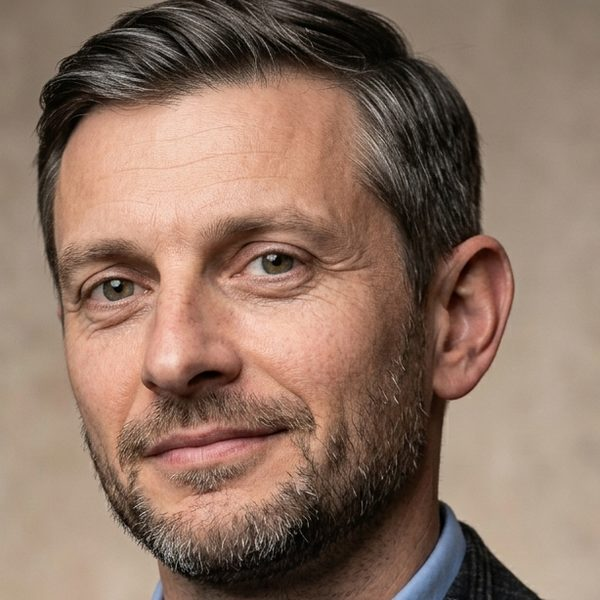
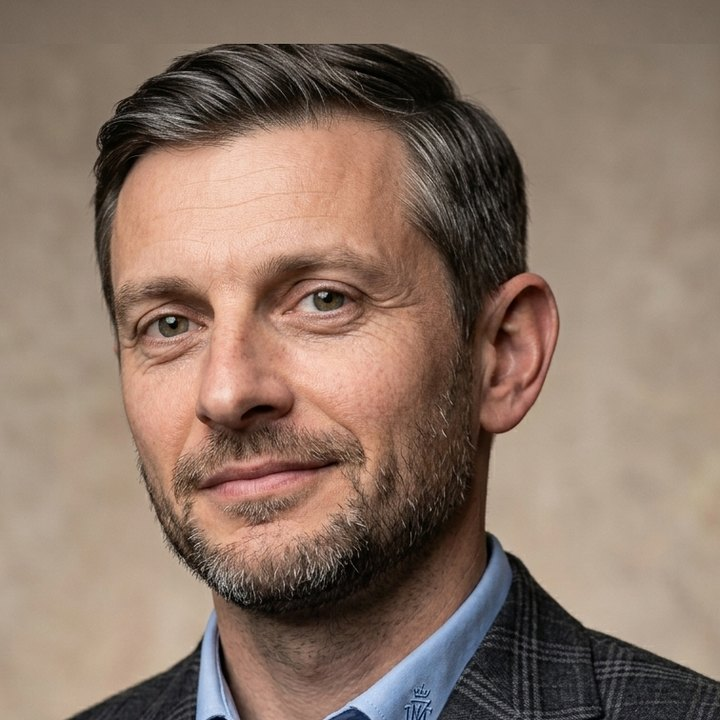
Widen the reports grid and recast the founder portrait.
Give the reports table its own ticker column, fixed widths so categories can wrap, and a 1200px container. Replace the delayed-access line with the one-month members sentence. Recrop the About headshot and draw the frame as a raised gold ring.

diff --git a/reports/index.html b/reports/index.html
@@ -140,14 +140,14 @@
   </header>
     <main id="main">
       <section class="page-hero">
-      <div class="wrap">
+      <div class="wrap reports-wrap">
         <p class="eyebrow">Published Research</p>
         <h1>Reports.</h1>
-        <p class="lede">Reports are free 1 month after release. A new note stays with members until then.</p>
+        <p class="lede">Reports become free one month after release. Until then they may only be accessed by subscribed members.</p>
       </div>
     </section>
     <section class="page">
-      <div class="wrap">
+      <div class="wrap reports-wrap">
         <div class="grid-tools">
           <label>Search
             <input id="report-search" type="search" placeholder="Title or ticker" autocomplete="off" />
@@ -176,6 +176,7 @@
             <table class="data">
               <thead>
                 <tr>
+                  <th>Ticker</th>
                   <th>Title</th>
                   <th>Category</th>
                   <th>Date Published</th>
@@ -184,12 +185,12 @@
                 </tr>
               </thead>
               <tbody>
-                <tr><td><a href="/reports/six-flags/">FUN Six Flags: The Business of Fun Isn't Much Fun</a></td><td>Leisure / Theme Parks</td><td>Oct 12, 2026</td><td>Short</td><td>Members only until Nov 12, 2026</td></tr>
-                <tr><td><a href="/reports/oracle/">ORCL Oracle: The Software Franchise Is Funding the Build</a></td><td>AI / Data Centers</td><td>Sep 21, 2026</td><td>Short</td><td>Available</td></tr>
-                <tr><td><a href="/reports/uranium/">URN Uranium: The Fuel Works. The Equity Has to Wait</a></td><td>Uranium / Nuclear</td><td>Sep 7, 2026</td><td>Short</td><td>Available</td></tr>
-                <tr><td><a href="/reports/coreweave/">CRWV CoreWeave: A Ranked Short</a></td><td>AI / Data Centers</td><td>Aug 24, 2026</td><td>Short</td><td>Available</td></tr>
-                <tr><td><a href="/reports/ww/">WW WW International: A Smaller Loan on a Shrinking Business</a></td><td>Consumer / Weight Loss</td><td>Jun 8, 2026</td><td>Short</td><td>Available</td></tr>
-                <tr><td><a href="/reports/uniti/">UNIT Uniti: The REIT Ended. The Debt Did Not.</a></td><td>Telecom / Fiber</td><td>May 18, 2026</td><td>Short</td><td>Available</td></tr>
+                <tr><td>FUN</td><td><a href="/reports/six-flags/">Six Flags: The Business of Fun Isn't Much Fun</a></td><td>Leisure / Theme Parks</td><td>Oct 12, 2026</td><td>Short</td><td>Members only until Nov 12, 2026</td></tr>
+                <tr><td>ORCL</td><td><a href="/reports/oracle/">Oracle: The Software Franchise Is Funding the Build</a></td><td>AI / Data Centers</td><td>Sep 21, 2026</td><td>Short</td><td>Available</td></tr>
+                <tr><td>URN</td><td><a href="/reports/uranium/">Uranium: The Fuel Works. The Equity Has to Wait</a></td><td>Uranium / Nuclear</td><td>Sep 7, 2026</td><td>Short</td><td>Available</td></tr>
+                <tr><td>CRWV</td><td><a href="/reports/coreweave/">CoreWeave: A Ranked Short</a></td><td>AI / Data Centers</td><td>Aug 24, 2026</td><td>Short</td><td>Available</td></tr>
+                <tr><td>WW</td><td><a href="/reports/ww/">WW International: A Smaller Loan on a Shrinking Business</a></td><td>Consumer / Weight Loss</td><td>Jun 8, 2026</td><td>Short</td><td>Available</td></tr>
+                <tr><td>UNIT</td><td><a href="/reports/uniti/">Uniti: The REIT Ended. The Debt Did Not.</a></td><td>Telecom / Fiber</td><td>May 18, 2026</td><td>Short</td><td>Available</td></tr>
               </tbody>
             </table>
           </div>

diff --git a/public/css/site.css b/public/css/site.css
@@ -704,18 +704,55 @@ table.data a:hover { color: var(--brass); }
 .founder-lockup { display: flex; flex-direction: column; align-items: flex-start; gap: 28px; }
 
 .founder-portrait {
-  width: 168px;
-  height: 168px;
+  position: relative;
+  width: 196px;
+  height: 196px;
   border-radius: 50%;
-  padding: 5px;
+  padding: 13px;
   background:
-    radial-gradient(circle at 30% 24%, rgba(255, 248, 230, 0.95), rgba(255, 248, 230, 0) 36%),
-    conic-gradient(from 210deg, #6d5422 0deg, #c6a15b 48deg, #f6edd4 92deg, #8d6c32 140deg, #5a4318 196deg, #ead9a6 248deg, #a07c3c 304deg, #6d5422 360deg);
+    radial-gradient(circle at 32% 26%, rgba(255, 243, 196, 0.55), rgba(255, 243, 196, 0) 46%),
+    conic-gradient(
+      from 206deg,
+      #7a5512 0deg,
+      #b8862b 46deg,
+      #d4a537 84deg,
+      #f5d77a 112deg,
+      #fff3c4 136deg,
+      #f5d77a 162deg,
+      #d4a537 198deg,
+      #b8862b 230deg,
+      #7a5512 268deg,
+      #5c3e10 300deg,
+      #b8862b 332deg,
+      #d4a537 352deg,
+      #7a5512 360deg
+    );
   box-shadow:
-    inset 0 1px 0 rgba(255, 250, 236, 0.85),
-    inset 0 -8px 12px rgba(70, 48, 12, 0.28),
-    0 1px 1px rgba(255, 248, 230, 0.7),
-    0 12px 26px rgba(48, 34, 10, 0.16);
+    0 0 0 1px #5a3e10,
+    0 1px 0 rgba(255, 243, 196, 0.75),
+    0 2px 3px rgba(48, 30, 8, 0.18),
+    0 14px 22px rgba(42, 28, 8, 0.26);
+}
+
+.founder-portrait::before {
+  content: "";
+  position: absolute;
+  inset: 0;
+  border-radius: 50%;
+  padding: 13px;
+  background: linear-gradient(
+    145deg,
+    rgba(255, 243, 196, 0.95) 0%,
+    rgba(245, 215, 122, 0.45) 24%,
+    rgba(255, 255, 255, 0) 46%,
+    rgba(92, 62, 16, 0.28) 74%,
+    rgba(255, 243, 196, 0.28) 100%
+  );
+  -webkit-mask: linear-gradient(#000 0 0) content-box, linear-gradient(#000 0 0);
+  -webkit-mask-composite: xor;
+  mask: linear-gradient(#000 0 0) content-box, linear-gradient(#000 0 0);
+  mask-composite: exclude;
+  pointer-events: none;
 }
 
 .founder-portrait-face {
@@ -729,9 +766,9 @@ table.data a:hover { color: var(--brass); }
   background:
     radial-gradient(circle at 50% 36%, #f6f5f2, #e3e0d8 72%, #d4d0c6);
   box-shadow:
-    inset 0 0 0 1px rgba(255, 255, 255, 0.75),
-    inset 0 8px 14px rgba(70, 52, 18, 0.08),
-    0 0 0 1px rgba(74, 54, 18, 0.28);
+    inset 0 0 0 1px rgba(255, 243, 196, 0.72),
+    inset 0 0 0 2px rgba(90, 58, 12, 0.42),
+    inset 0 7px 12px rgba(48, 30, 8, 0.42);
 }
 
 .founder-portrait-face img {
@@ -1057,11 +1094,15 @@ a.contact-card:hover { background: var(--bg-raised); }
 
 .grid-tools input { min-width: 240px; }
 
+.reports-wrap { width: min(1200px, calc(100% - 48px)); }
+
 .reports-grid { width: 100%; min-height: 280px; }
 .reports-grid .ag-row { cursor: pointer; }
+.reports-grid .ag-cell { line-height: 1.35; }
 .reports-grid .report-link { color: var(--text); font-weight: 500; }
 .reports-grid .report-link:hover { color: var(--navy); }
-.reports-grid .ticker { color: var(--muted); }
+.reports-grid .ticker { color: var(--muted); margin-right: 0; }
+.reports-grid .member-label { margin-top: 0; }
 
 .member-label {
   display: block;

diff --git a/src/reports-grid.js b/src/reports-grid.js
@@ -124,43 +124,63 @@ if (host) {
       sortable: true,
       filter: true,
       resizable: true,
-      minWidth: 120,
       suppressHeaderMenuButton: false,
+      wrapHeaderText: true,
+      autoHeaderHeight: true,
     },
     columnDefs: [
       {
+        headerName: "Ticker",
+        field: "ticker",
+        width: narrow ? 64 : 72,
+        minWidth: narrow ? 64 : 72,
+        maxWidth: 84,
+        flex: 0,
+        pinned: narrow ? "left" : null,
+        filter: "agTextColumnFilter",
+        cellClass: "ticker-cell",
+        cellRenderer: (params) => {
+          const link = document.createElement("a");
+          link.href = params.data.href;
+          link.className = "ticker";
+          link.textContent = params.value;
+          return link;
+        },
+      },
+      {
         headerName: "Title",
         field: "title",
-        flex: 2,
-        minWidth: narrow ? 210 : 280,
-        pinned: narrow ? "left" : null,
+        width: 300,
+        minWidth: narrow ? 180 : 300,
+        flex: 1,
         filter: "agTextColumnFilter",
         wrapText: true,
         autoHeight: true,
-        getQuickFilterText: (params) => `${params.data.ticker} ${params.data.title}`,
         cellRenderer: (params) => {
           const link = document.createElement("a");
           link.href = params.data.href;
           link.className = "report-link";
-          const ticker = document.createElement("span");
-          ticker.className = "ticker";
-          ticker.textContent = params.data.ticker;
-          link.append(ticker, document.createTextNode(params.data.title));
+          link.textContent = params.value;
           return link;
         },
       },
       {
         headerName: "Category",
         field: "category",
-        flex: 1,
-        minWidth: 160,
+        width: narrow ? 120 : 156,
+        minWidth: narrow ? 108 : 140,
+        flex: 0,
         filter: "agTextColumnFilter",
+        wrapText: true,
+        autoHeight: true,
       },
       {
         headerName: "Date Published",
         colId: "date",
-        flex: 1,
-        minWidth: 150,
+        width: narrow ? 108 : 118,
+        minWidth: narrow ? 100 : 110,
+        maxWidth: 130,
+        flex: 0,
         filter: "agDateColumnFilter",
         sort: "desc",
         valueGetter: (params) => dateValue(params.data.date),
@@ -179,8 +199,10 @@ if (host) {
       {
         headerName: "Direction",
         field: "direction",
-        minWidth: 130,
-        maxWidth: 160,
+        width: narrow ? 88 : 96,
+        minWidth: narrow ? 84 : 90,
+        maxWidth: 110,
+        flex: 0,
         filter: "agTextColumnFilter",
         cellRenderer: (params) => {
           const label = document.createElement("span");
@@ -193,8 +215,9 @@ if (host) {
       {
         headerName: "Access",
         field: "access",
-        flex: 1.2,
-        minWidth: 220,
+        width: narrow ? 128 : 148,
+        minWidth: narrow ? 120 : 135,
+        flex: 0,
         wrapText: true,
         autoHeight: true,
         filter: "agTextColumnFilter",

diff --git a/pricing/index.html b/pricing/index.html
@@ -4,9 +4,9 @@
     <meta charset="utf-8" />
     <meta name="viewport" content="width=device-width, initial-scale=1" />
     <title>Pricing, Froth City Research</title>
-    <meta name="description" content="Reader is free, with reports 1 month after release. Subscriber is $249 a month. Premium is $849 a month." />
+    <meta name="description" content="Reports become free one month after release. Until then they may only be accessed by subscribed members. Subscriber is $249 a month. Premium is $849 a month." />
     <meta property="og:title" content="Pricing, Froth City Research" />
-    <meta property="og:description" content="Reader is free, with reports 1 month after release. Subscriber is $249 a month. Premium is $849 a month." />
+    <meta property="og:description" content="Reports become free one month after release. Until then they may only be accessed by subscribed members. Subscriber is $249 a month. Premium is $849 a month." />
     <meta property="og:type" content="website" />
     <meta name="twitter:card" content="summary_large_image" />
     <meta name="theme-color" content="#f7f6f3" />
@@ -151,7 +151,7 @@
           <p class="eyebrow">Reader</p>
           <p class="price">$0</p>
           <ul>
-            <li>Access to reports 1 month after they are released</li>
+            <li>Reports become free one month after release. Until then they may only be accessed by subscribed members.</li>
             <li>Public research feed</li>
           </ul>
           <a class="btn btn-ghost" href="/reports/">Browse reports</a>

diff --git a/faq/index.html b/faq/index.html
@@ -150,7 +150,7 @@
         <div class="faq">
           <details class="faq-item">
             <summary>Can I read your reports for free? <span class="plus" aria-hidden="true">+</span></summary>
-            <p>Yes, 1 month after a report is released. Members can read a new note as soon as it is published. The Weekly 5/5 and founder meetings are paid.</p>
+            <p>Reports become free one month after release. Until then they may only be accessed by subscribed members. The Weekly 5/5 and founder meetings are paid.</p>
           </details>
 <details class="faq-item">
             <summary>When does the Weekly 5/5 go out? <span class="plus" aria-hidden="true">+</span></summary>
@@ -158,7 +158,7 @@
           </details>
 <details class="faq-item">
             <summary>What does the $849 plan include? <span class="plus" aria-hidden="true">+</span></summary>
-            <p>The Weekly 5/5, plus a monthly one-hour meeting with the founders and lead analysts for personalized research. Published reports open to everyone 1 month after release.</p>
+            <p>The Weekly 5/5, plus a monthly one-hour meeting with the founders and lead analysts for personalized research. Reports become free one month after release. Until then they may only be accessed by subscribed members.</p>
           </details>
 <details class="faq-item">
             <summary>Do you hold positions in the companies you cover? <span class="plus" aria-hidden="true">+</span></summary>

diff --git a/services/index.html b/services/index.html
@@ -150,7 +150,7 @@
       <article class="service">
         <p class="service-num">I</p>
         <h2>Reports</h2>
-        <p>Published long and short reports, free 1 month after release. Members can read a new note as soon as it is published.</p>
+        <p>Reports become free one month after release. Until then they may only be accessed by subscribed members.</p>
         <a class="text-link" href="/reports/">Browse reports →</a>
       </article>
       <article class="service">

diff --git a/about/index.html b/about/index.html
@@ -153,7 +153,7 @@
             <div class="founder-portrait">
               <div class="founder-portrait-face">
                 <span class="founder-placeholder" aria-hidden="true">JL</span>
-                <img src="/images/jim-lynch.jpg" alt="Jim Lynch" width="156" height="156" onerror="this.remove()" />
+                <img src="/images/jim-lynch.jpg" alt="Jim Lynch" width="170" height="170" onerror="this.remove()" />
               </div>
             </div>
             <div>
